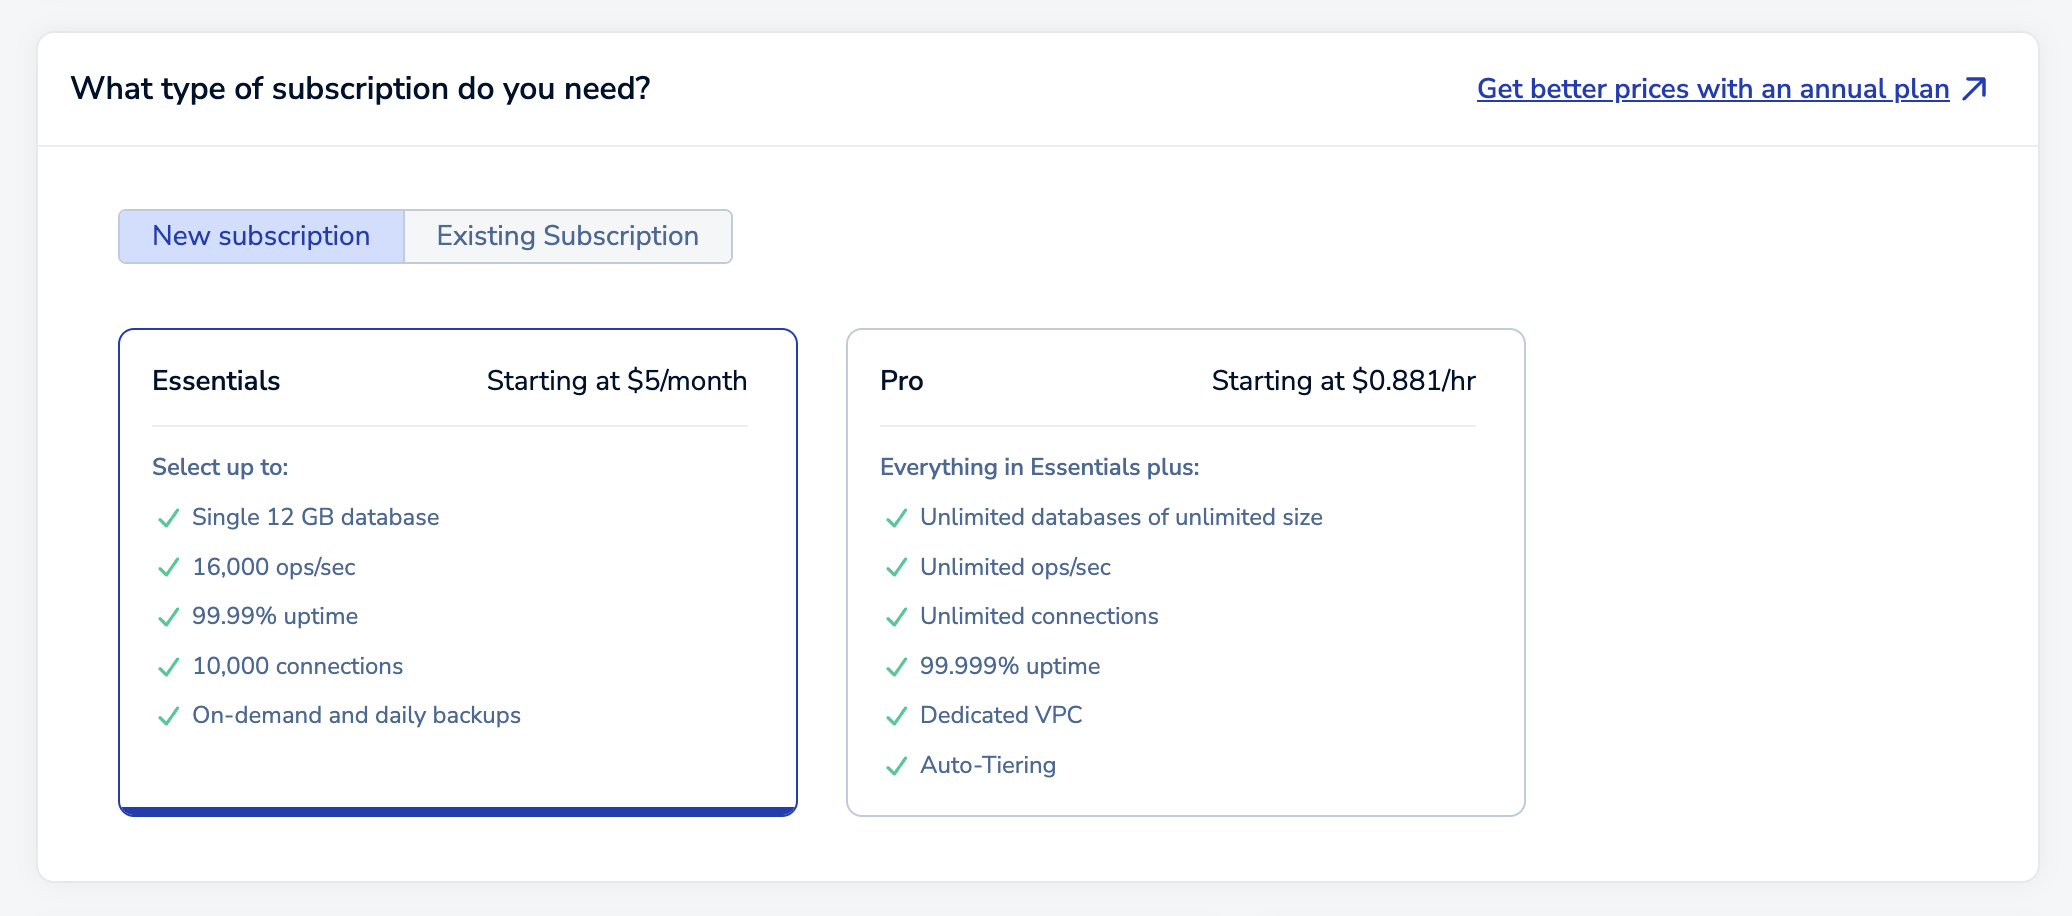
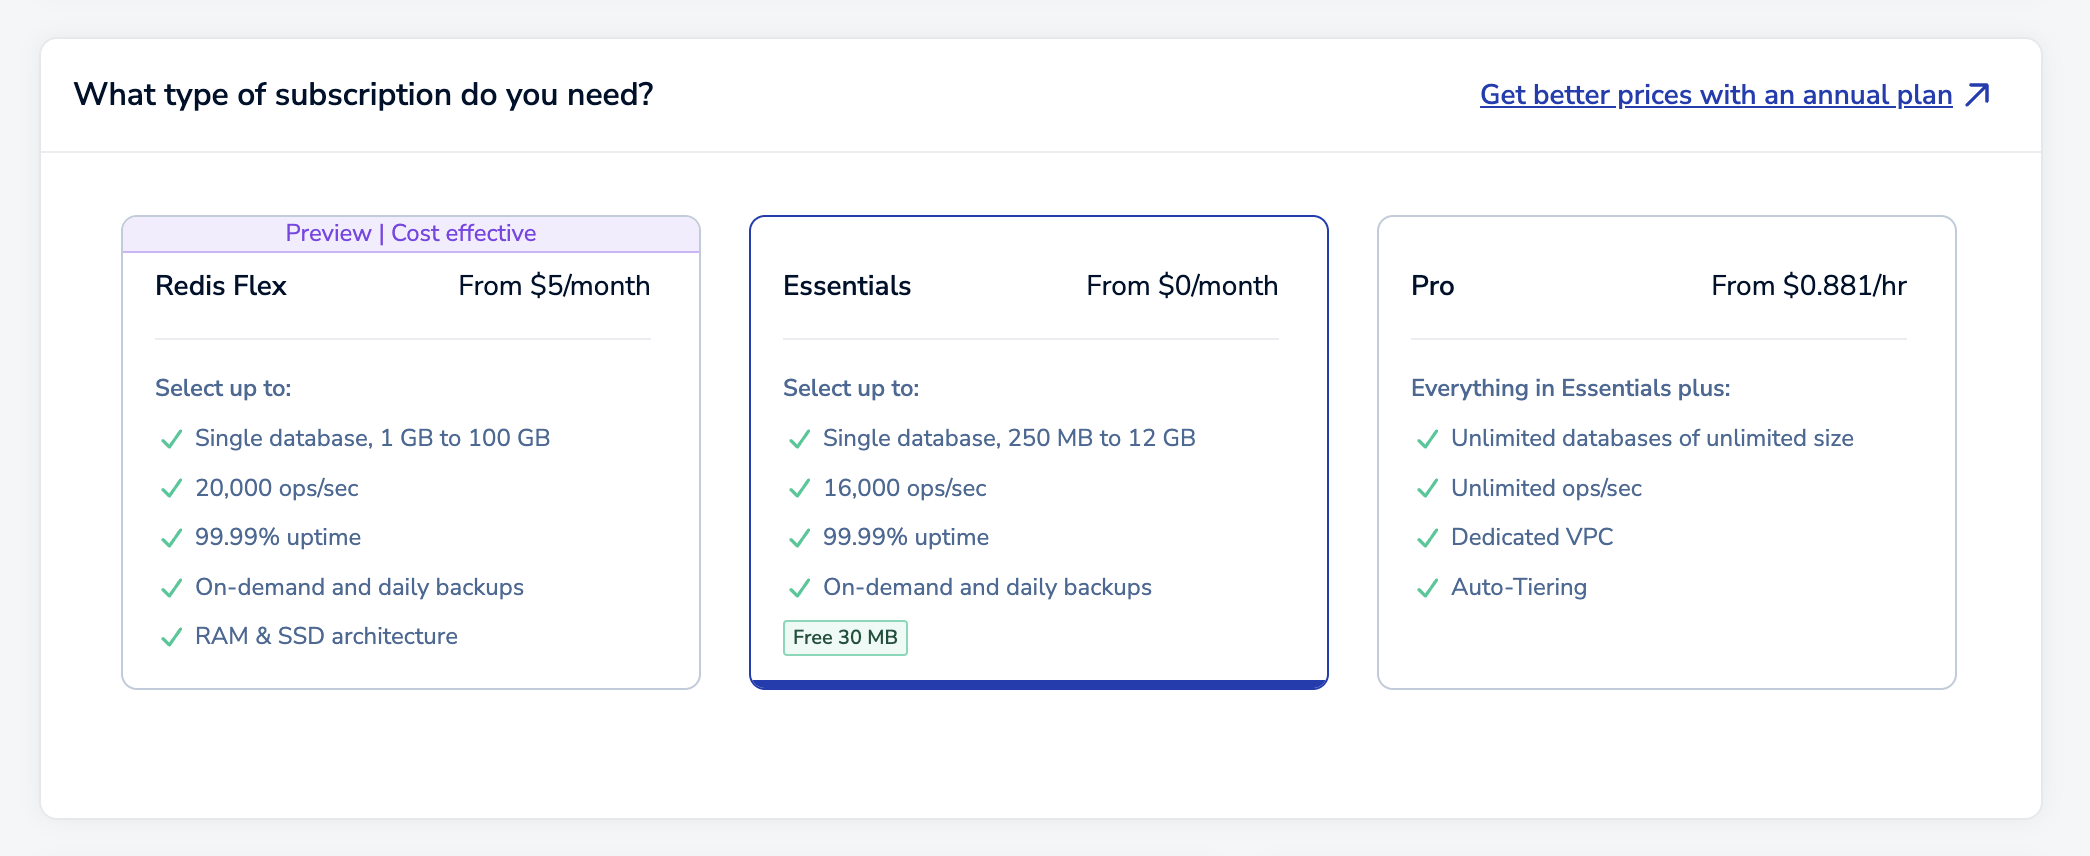
Flex changes

diff --git a/content/operate/rc/databases/create-database/create-flex-database.md b/content/operate/rc/databases/create-database/create-flex-database.md
@@ -1,0 +1,140 @@
+---
+Title: Create a Redis Flex database
+alwaysopen: false
+categories:
+- docs
+- operate
+- rc
+description: Shows how to create an Redis Flex database on Redis Cloud and describes the best use cases for Redis Flex. 
+linkTitle: Create Redis Flex database
+weight: 8
+tocEmbedHeaders: true
+---
+
+Redis Flex have a combined solid state drive (SSD) and RAM architecture. Using SSDs instead of RAM significantly reduces infrastructure costs, which means developers can build applications that require large datasets using the same Redis API.
+
+Redis Flex databases are compatible with most existing Redis applications, except for applications that use Search and Query and Time Series.
+
+Redis Flex is currently available in preview on Redis Cloud Essentials. 
+
+## Redis Flex use cases
+
+The benefits associated with Redis Flex are dependent on the use case.
+
+Redis Flex is ideal when your:
+
+- working set is significantly smaller than your dataset (high RAM hit rate)
+- average key size is smaller than average value size (all key names are stored in RAM)
+- most recent data is the most frequently used (high RAM hit rate)
+
+Redis Flex is not recommended for:
+
+- Long key names (all key names are stored in RAM)
+- Broad access patterns (any value could be pulled into RAM)
+- Large working sets (working set is stored in RAM)
+- Frequently moved data (moving to and from RAM too often can impact performance)
+
+Redis Flex is not intended to be used for persistent storage.
+
+## Where is my data?
+
+When using Redis Flex, RAM storage holds:
+- All keys (names)
+- Key indexes
+- Dictionaries
+- Hot data (working set)
+
+All data is accessed through RAM. If a value in flash memory is accessed, it becomes part of the working set and is moved to RAM. These values are referred to as “hot data”.
+
+Inactive or infrequently accessed data is referred to as “warm data” and stored in flash memory. When more space is needed in RAM, warm data is moved from RAM to flash storage.
+
+## Create a Redis Flex database on Redis Cloud Essentials
+
+{{< embed-md "rc-create-db-first-steps.md" >}} 
+
+3. Select your Redis use case. There are three pre-defined use cases supported with Redis Flex:
+
+    {{<image filename="images/rc/create-database-redis-use-cases.png" alt="The Redis Use case panel">}}
+
+    - **Cache**: Stores short-term or volatile data. Can be used for session management, semantic cache, session store, and other uses where data is short-lived.
+    - **Database**: Stores durable and consistent data. Can be used for document databases, feature storage, gaming leaderboards, durable caches, and other uses where your data needs to be highly available and persistent.
+    - **Custom**: If your Redis use case doesn't match any of the other use cases, you can choose this option to customize all of your settings.
+
+    Select the use case that best matches your Redis use case. You can always change the settings later. 
+
+    The **Vector search** use case is not supported with Redis Flex.
+
+    {{< note >}}
+See [Use case settings](#use-case-settings) to view the default settings for each use case.
+    {{< /note >}}
+
+4. Select the type of [subscription]({{< relref "/operate/rc/subscriptions" >}}) you need. For this guide, select **Redis Flex**.
+
+    {{<image filename="images/rc/create-database-subscription-flex.png" alt="The Subscription selection panel with Redis Flex selected.">}}
+
+    {{< note >}}
+This guide shows how to create a Redis Flex database on Redis Cloud Essentials.
+- If you'd rather create a Redis on RAM Essentials database, see [Create an Essentials database]({{< relref "/operate/rc/databases/create-database/create-essentials-database" >}}).
+- If you'd rather create a Pro database, see [Create a Pro database with a new subscription]({{< relref "/operate/rc/databases/create-database/create-pro-database-new" >}}).
+- If you already have a Pro subscription and want to add a database to it, see [Create a Pro database in an existing subscription]({{< relref "/operate/rc/databases/create-database/create-pro-database-existing" >}}).
+    {{< /note >}}
+    
+    After you select **Redis Flex**, the rest of the database details will appear.
+
+    {{<image filename="images/rc/create-database-essentials-cloud-vendor.png" alt="The database name, cloud vendor, region, and type settings.">}}
+
+1. Redis will generate a database name for you. If you want to change it, you can do so in the **Database name** field.  
+
+1. Choose a **Region** on Amazon Web Services for your database.
+
+1. In the **Durability settings** panel, choose your **High availability settings** and **Data persistence** settings from the list. 
+
+    {{<image filename="images/rc/create-database-essentials-durability.png" alt="The durability settings allow you to choose High availability and Data persistence.">}}
+
+
+    Redis Cloud supports the following high availability settings:
+
+    - **None**: You will have a single copy of your database without replication.
+    - **Single-Zone**: Your database will have a primary and a replica located in the same cloud zone. If anything happens to the primary, the replica takes over and becomes the new primary.
+    - **Multi-Zone**: The primary and its replicas are stored in different zones. This means that your database can remain online even if an entire zone becomes unavailable.
+
+    See [High availability]({{< relref "/operate/rc/databases/configuration/high-availability" >}}) for more information about these settings.
+
+    Redis Cloud supports the following Data persistence options:
+
+    - An **Append-Only File** maintains a record (sometimes called a _redo log_ or _journal_) of write operations.  This allows the data to be restored by using the record to reconstruct the database up to the point of failure. For Essentials databases, Redis updates the Append-Only file every second.
+
+    - A **Snapshot** is a copy of the in-memory database, taken at periodic intervals (one, six, or twelve hours). You can restore data to the snapshot's point in time. 
+    
+    See [Data persistence]({{< relref "/operate/rc/databases/configuration/data-persistence" >}}) for more information about these settings.
+
+    These settings may already be set based on the use case you selected. You can change them now if you like.
+    
+1. Select the desired memory limit. 
+
+    {{<image filename="images/rc/subscription-new-fixed-tiers.png" alt="Available Redis Flex plans." >}}
+
+    For a comparison of available plans, see [Redis Cloud Essentials plans]({{< relref "/operate/rc/subscriptions/view-essentials-subscription/essentials-plan-details" >}}).
+
+1.  Enter your payment details.
+
+    If you haven't previously entered a payment method, use the **Add Credit Card** button to add one.
+
+    {{<image filename="images/rc/icon-add-credit-card.png" alt="The Add credit card icon." >}}
+
+1. Select **Confirm & pay** to create your database.
+
+{{<image filename="images/rc/button-create-db-confirm-pay.png" width="140px" alt="Select Confirm & Pay to create your new database." >}}
+
+When you create your database, there's a brief pause while your request is processed and then the **Database details** page appears.
+
+
+### Use case settings
+
+The following table shows the default use case settings for an Essentials database.
+
+| **Type** | High Availability | Data Persistence | Size | Eviction Policy |
+|---|---|---|---|---|
+| **Cache** | None | None | 30 MB - 12 GB | `volatile-lru` |
+| **Database** | Multi-zone | Append-only file every 1 sec | 250 MB - 12 GB | None |
+| **Custom** | Single-zone | Append-only file every 1 sec | 250 MB - 12 GB | None |

diff --git a/content/operate/rc/subscriptions/view-essentials-subscription/essentials-plan-details.md b/content/operate/rc/subscriptions/view-essentials-subscription/essentials-plan-details.md
@@ -25,6 +25,8 @@ If you need additional resources, you can [upgrade your subscription]({{< relref
 
 These plans are currently offered for all new and upgraded Essentials subscriptions (updated March 2024).
 
+### Redis Cloud Essentials plans
+
 {{<table-scrollable>}}
 | **DB&nbsp;size**<sup>[1](#table-note-1)</sup> | **30&nbsp;MB&nbsp;(Free)** | **250 MB** | **1 GB** | **2.5 GB** | **5 GB** | **12 GB** |
 |---|---|---|---|---|---|---|
@@ -32,6 +34,21 @@ These plans are currently offered for all new and upgraded Essentials subscripti
 | **CIDR<br/> allow rules** | 1 | 4 | 4-8 | 4-8 | 4-16 | 4-32 |
 | **Monthly<br/> total network<br/> bandwidth** | 5&nbsp;GB | 100&nbsp;GB | 200&nbsp;GB | 400&nbsp;GB | 800&nbsp;GB | 2000&nbsp;GB |
 | **Maximum<br/> throughput<sup>[2](#table-note-2)</sup>** | 100&nbsp;ops/sec | 1000&nbsp;ops/sec | 2000&nbsp;ops/sec | 4000&nbsp;ops/sec | 8000&nbsp;ops/sec | 16000&nbsp;ops/sec |
+{{</table-scrollable>}}
+
+1. <a name="table-note-1" style="display: block; height: 80px; margin-top: -80px;"></a> Database size includes replication where applicable. See [High availability cost impact]({{< relref "/operate/rc/databases/configuration/high-availability#dataset-size" >}}) for more information.
+
+2. <a name="table-note-2" style="display: block; height: 80px; margin-top: -80px;"></a> Assumes request size of 1 KiB. Maximums are capped by actual MB/s reached. To find the MB/s limit, divide the Maximum throughput by 1024.
+
+### Redis Flex plans
+
+{{<table-scrollable>}}
+| **DB&nbsp;size**<sup>[1](#table-note-1-flex)</sup> | **1 GB** | **2.5 GB** | **5 GB** | **12 GB** | **25 GB** | **50 GB** | **100 GB** |
+|---|---|---|---|---|---|---|---|
+| **Concurrent<br/>connections<br/>per database** | 1024 | 2500 | 5000 | 10000 | 10000 | 10000 | 10000 |
+| **CIDR<br/> allow rules** | 4-8 | 4-8 | 4-16 | 4-32 | 4-32 | 4-32 | 4-32 |
+| **Monthly<br/> total network<br/> bandwidth** | 50&nbsp;GB | 100&nbsp;GB | 200&nbsp;GB | 500&nbsp;GB | 1000&nbsp;GB | 2000&nbsp;GB | 4000&nbsp;GB |
+| **Maximum<br/> throughput<sup>[2](#table-note-2-flex)</sup>** | 200&nbsp;ops/sec | 500&nbsp;ops/sec | 1000&nbsp;ops/sec | 2400&nbsp;ops/sec | 5000&nbsp;ops/sec | 10000&nbsp;ops/sec | 20000&nbsp;ops/sec |
 {{</table-scrollable>}}
 
 1. <a name="table-note-1" style="display: block; height: 80px; margin-top: -80px;"></a> Database size includes replication where applicable. See [High availability cost impact]({{< relref "/operate/rc/databases/configuration/high-availability#dataset-size" >}}) for more information.

diff --git a/content/embeds/rc-create-db-first-steps.md b/content/embeds/rc-create-db-first-steps.md
@@ -9,14 +9,3 @@ To create a database in your Redis Cloud account:
     {{<image filename="images/rc/button-database-new.png" alt="The New Database button creates a new database." width="120px">}}
 
     This displays the **Create database** screen.
-
-3. Select your Redis use case. There are four pre-defined use cases:
-
-    {{<image filename="images/rc/create-database-redis-use-cases.png" alt="The Redis Use case panel">}}
-
-    - **Cache**: Stores short-term or volatile data. Can be used for session management, semantic cache, session store, and other uses where data is short-lived.
-    - **Database**: Stores durable and consistent data. Can be used for document databases, feature storage, gaming leaderboards, durable caches, and other uses where your data needs to be highly available and persistent.
-    - **Vector search**: Manages and manipulates vector data. Can be used for Generative AI, recommendation systems, visual search, and other uses where you can search and query your data.
-    - **Custom**: If your Redis use case doesn't match any of the other use cases, you can choose this option to customize all of your settings.
-
-    Select the use case that best matches your Redis use case. You can always change the settings later. 

diff --git a/content/operate/rc/databases/create-database/create-essentials-database.md b/content/operate/rc/databases/create-database/create-essentials-database.md
@@ -14,6 +14,8 @@ tocEmbedHeaders: true
 ---
 
 {{< embed-md "rc-create-db-first-steps.md" >}} 
+
+{{< embed-md "rc-create-db-use-cases.md" >}}
     {{< note >}}
 See [Use case settings](#use-case-settings) to view the default settings for each use case.
     {{< /note >}}
@@ -24,6 +26,7 @@ See [Use case settings](#use-case-settings) to view the default settings for eac
 
     {{< note >}}
 This guide shows how to create an Essentials database.
+- If you'd rather create a Redis Flex database on Redis Cloud Essentials, see [Create a Redis Flex database]({{< relref "/operate/rc/databases/create-database/create-flex-database" >}})
 - If you'd rather create a Pro database, see [Create a Pro database with a new subscription]({{< relref "/operate/rc/databases/create-database/create-pro-database-new" >}}).
 - If you already have a Pro subscription and want to add a database to it, see [Create a Pro database in an existing subscription]({{< relref "/operate/rc/databases/create-database/create-pro-database-existing" >}}).
     {{< /note >}}

diff --git a/content/embeds/rc-create-db-use-cases.md b/content/embeds/rc-create-db-use-cases.md
@@ -1,0 +1,10 @@
+3. Select your Redis use case. There are four pre-defined use cases:
+
+    {{<image filename="images/rc/create-database-redis-use-cases.png" alt="The Redis Use case panel">}}
+
+    - **Cache**: Stores short-term or volatile data. Can be used for session management, semantic cache, session store, and other uses where data is short-lived.
+    - **Database**: Stores durable and consistent data. Can be used for document databases, feature storage, gaming leaderboards, durable caches, and other uses where your data needs to be highly available and persistent.
+    - **Vector search**: Manages and manipulates vector data. Can be used for Generative AI, recommendation systems, visual search, and other uses where you can search and query your data.
+    - **Custom**: If your Redis use case doesn't match any of the other use cases, you can choose this option to customize all of your settings.
+
+    Select the use case that best matches your Redis use case. You can always change the settings later. 

diff --git a/content/operate/rc/databases/create-database/_index.md b/content/operate/rc/databases/create-database/_index.md
@@ -17,6 +17,7 @@ The process for Creating a database depends on the type of [subscription plan]({
 
 An **Essentials** plan is a fixed monthly price for a single database. It is cost-efficient and designed for low-throughput scenarios. It supports a range of availability, persistence, and backup options. Pricing supports low throughput workloads.
 - [Create an Essentials database]({{< relref "/operate/rc/databases/create-database/create-essentials-database" >}})
+- [Create a Redis Flex database]({{< relref "/operate/rc/databases/create-database/create-flex-database" >}})
 
 A **Pro** plan is an hourly price based on capacity. It supports more databases, larger databases, greater throughput, and unlimited connections. 
 - [Create a Pro database with a new subscription]({{< relref "/operate/rc/databases/create-database/create-pro-database-new" >}})

diff --git a/content/operate/rc/databases/create-database/create-pro-database-existing.md b/content/operate/rc/databases/create-database/create-pro-database-existing.md
@@ -13,6 +13,8 @@ tocEmbedHeaders: true
 
 {{< embed-md "rc-create-db-first-steps.md" >}}
 
+{{< embed-md "rc-create-db-use-cases.md" >}}
+
 {{< note >}}See [Use case settings](#use-case-settings) to view the default settings for each use case.{{< /note >}}
 
 4. Select the type of [subscription]({{< relref "/operate/rc/subscriptions" >}}) you need. For this guide, select **Pro**, select **Existing subscription**, and then select your existing pro subscription from the list.

diff --git a/content/operate/rc/databases/create-database/create-active-active-database.md b/content/operate/rc/databases/create-database/create-active-active-database.md
@@ -26,6 +26,8 @@ Redis Cloud maintains consistency among instances in the background; that is, ea
 
 {{< embed-md "rc-create-db-first-steps.md" >}}
 
+{{< embed-md "rc-create-db-use-cases.md" >}}
+
 4. Select the type of [subscription]({{< relref "/operate/rc/subscriptions" >}}) you need. For this guide, select **Pro**. 
 
     {{<image filename="images/rc/create-database-subscription-pro-new.png" alt="The Subscription selection panel with Pro selected.">}}

diff --git a/content/operate/rc/databases/create-database/create-pro-database-new.md b/content/operate/rc/databases/create-database/create-pro-database-new.md
@@ -13,6 +13,8 @@ tocEmbedHeaders: true
 
 {{< embed-md "rc-create-db-first-steps.md" >}}
 
+{{< embed-md "rc-create-db-use-cases.md" >}}
+
 {{< note >}}See [Use case settings](#use-case-settings) to view the default settings for each use case.{{< /note >}}
 
 4. Select the type of [subscription]({{< relref "/operate/rc/subscriptions" >}}) you need. For this guide, select **Pro**. 
